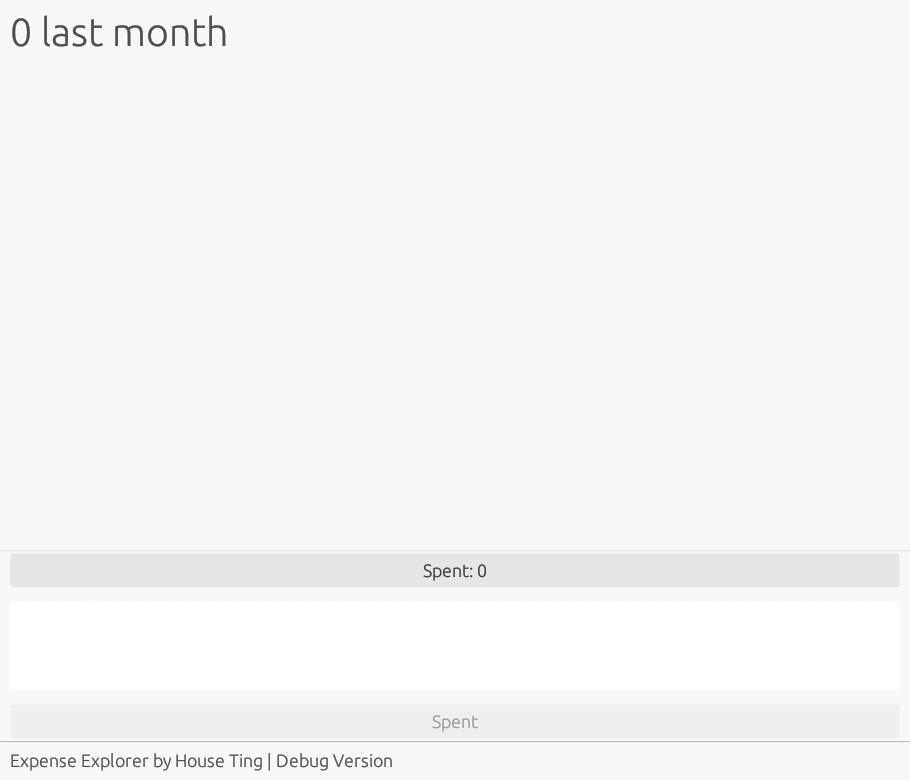
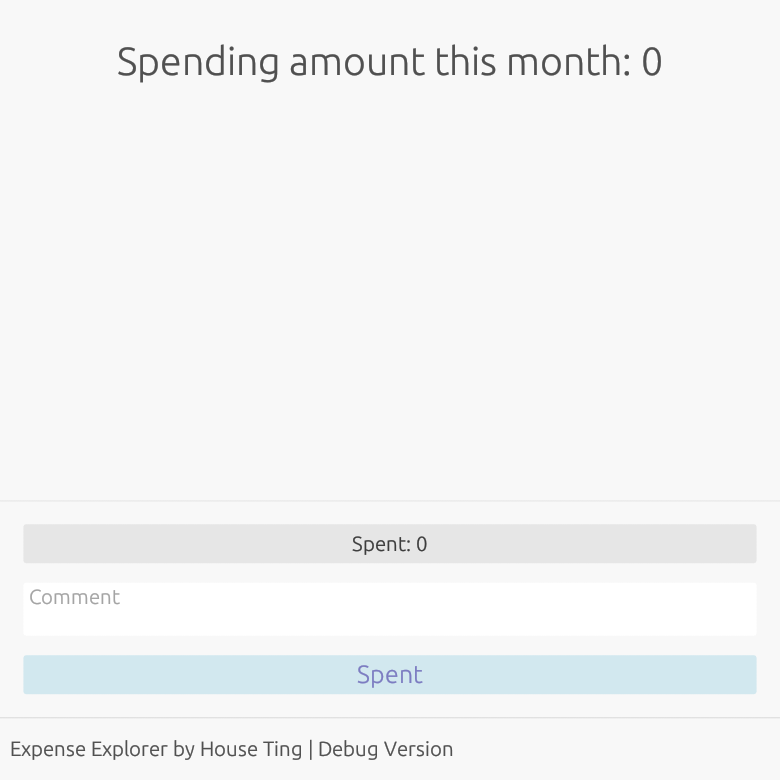
Added total-stat panel

diff --git a/src/graphics.rs b/src/graphics.rs
@@ -1,9 +1,9 @@
-use egui::{*, FontFamily::Proportional, FontId, TextStyle::*};
-use eframe::{App, CreationContext, Frame};
+use egui::{*, FontFamily::Proportional, FontId};
+use eframe::{App, CreationContext};
 
 use std::collections::BTreeMap;
 
-use crate::crosstyping::{TunedDb, LastInfo};
+use crate::crosstyping::TunedDb;
 
 
 
@@ -17,14 +17,15 @@ impl<D: TunedDb + Default> Trac<D> {
     pub fn new(cc: &CreationContext<'_>) -> Self {
         cc.egui_ctx.set_theme(Theme::Light);
         
+        use egui::TextStyle::*;
         let text_styles: BTreeMap<_, _> = [
             (Heading, FontId::new(30.0, Proportional)),
             (Name("Heading2".into()), FontId::new(25.0, Proportional)),
             (Name("Context".into()), FontId::new(23.0, Proportional)),
-            (Body, FontId::new(14.0, Proportional)),
-            (Monospace, FontId::new(14.0, Proportional)),
-            (Button, FontId::new(14.0, Proportional)),
-            (Small, FontId::new(13.0, Proportional)),
+            (Body, FontId::new(16.0, Proportional)),
+            (Monospace, FontId::new(16.0, Proportional)),
+            (Button, FontId::new(16.0, Proportional)),
+            (Small, FontId::new(15.0, Proportional)),
         ].into();
         cc.egui_ctx.all_styles_mut(move |style| style.text_styles = text_styles.clone());
         
@@ -36,9 +37,9 @@ impl<D: TunedDb + Default> Trac<D> {
     }
 }
 impl<D: TunedDb> App for Trac<D> {
-    fn update(&mut self, ctx: &Context, _frame: &mut Frame) {
+    fn update(&mut self, ctx: &Context, _frame: &mut eframe::Frame) {
         TopBottomPanel::bottom("status_bar")
-            .min_height(30.0)
+            .min_height(48.0)
             .show(ctx, |ui| {
                 ui.horizontal_centered(|ui| {
                     ui.label("Expense Explorer by House Ting | Debug Version");
@@ -46,29 +47,37 @@ impl<D: TunedDb> App for Trac<D> {
             });
         
         TopBottomPanel::bottom("track")
+            .frame(Frame::side_top_panel(&ctx.style()).inner_margin(Margin::same(18.0)))
             .show(ctx, |ui| {
                 let bigness = (self.form_spent as f32).ln_1p();  // 0.00 .. 11.52
                 let drag_speed = 12.0 - bigness;
                 
                 ui.vertical_centered_justified(|ui| {
-                    ui.spacing_mut().window_margin = Margin::same(12.0);
-                    ui.spacing_mut().interact_size.y += 8.0;
-                    ui.spacing_mut().item_spacing.y += 8.0;
+                    ui.spacing_mut().interact_size.y += 12.0;
+                    ui.spacing_mut().item_spacing.y += 12.0;
                     
                     ui.add(widgets::DragValue::new(&mut self.form_spent)
                         .range(0..=100000)
                         .speed(drag_speed)
                         .prefix("Spent: "));
                     
-                    ui.text_edit_multiline(&mut self.form_comment);
+                    // TODO: smart expense-category slider.
+                    
+                    ui.add(widgets::TextEdit::multiline(&mut self.form_comment)
+                        .desired_rows(2)
+                        .hint_text("Comment"));
                     
                     if self.form_spent == 0 {ui.disable();}
-                    if ui.button("Spent").clicked() {
+                    
+                    let spent = RichText::new("Spent").size(19.0).strong().color(Color32::DARK_BLUE);
+                    let spent = Button::new(spent).fill(Color32::LIGHT_BLUE);
+                    if ui.add(spent).clicked() {
                         self.db.insert_expense(crate::crosstyping::ClientData{
                             amount: self.form_spent,
                             group: None
                         });
                         self.form_spent = 0;
+                        self.form_comment.clear();
                     }
                 });
             });
@@ -79,10 +88,15 @@ impl<D: TunedDb> App for Trac<D> {
         
         let latest_meaning = self.db.gen_interval_last(MONTH);
         let latest_info = self.db.total_spending_last(latest_meaning, None);
+        let latte = latest_info.total_amount;
         
         CentralPanel::default()
+            .frame(Frame::side_top_panel(&ctx.style()).inner_margin(Margin::same(30.0)))
             .show(ctx, |ui| {
-                ui.heading(format!("{} last month", latest_info.total_amount));
+                ui.vertical_centered_justified(|ui| {
+                    ui.spacing_mut().item_spacing.y += 12.0;
+                    ui.heading(format!("Spending amount this month: {latte}"));
+                });
             });
     }
 }
